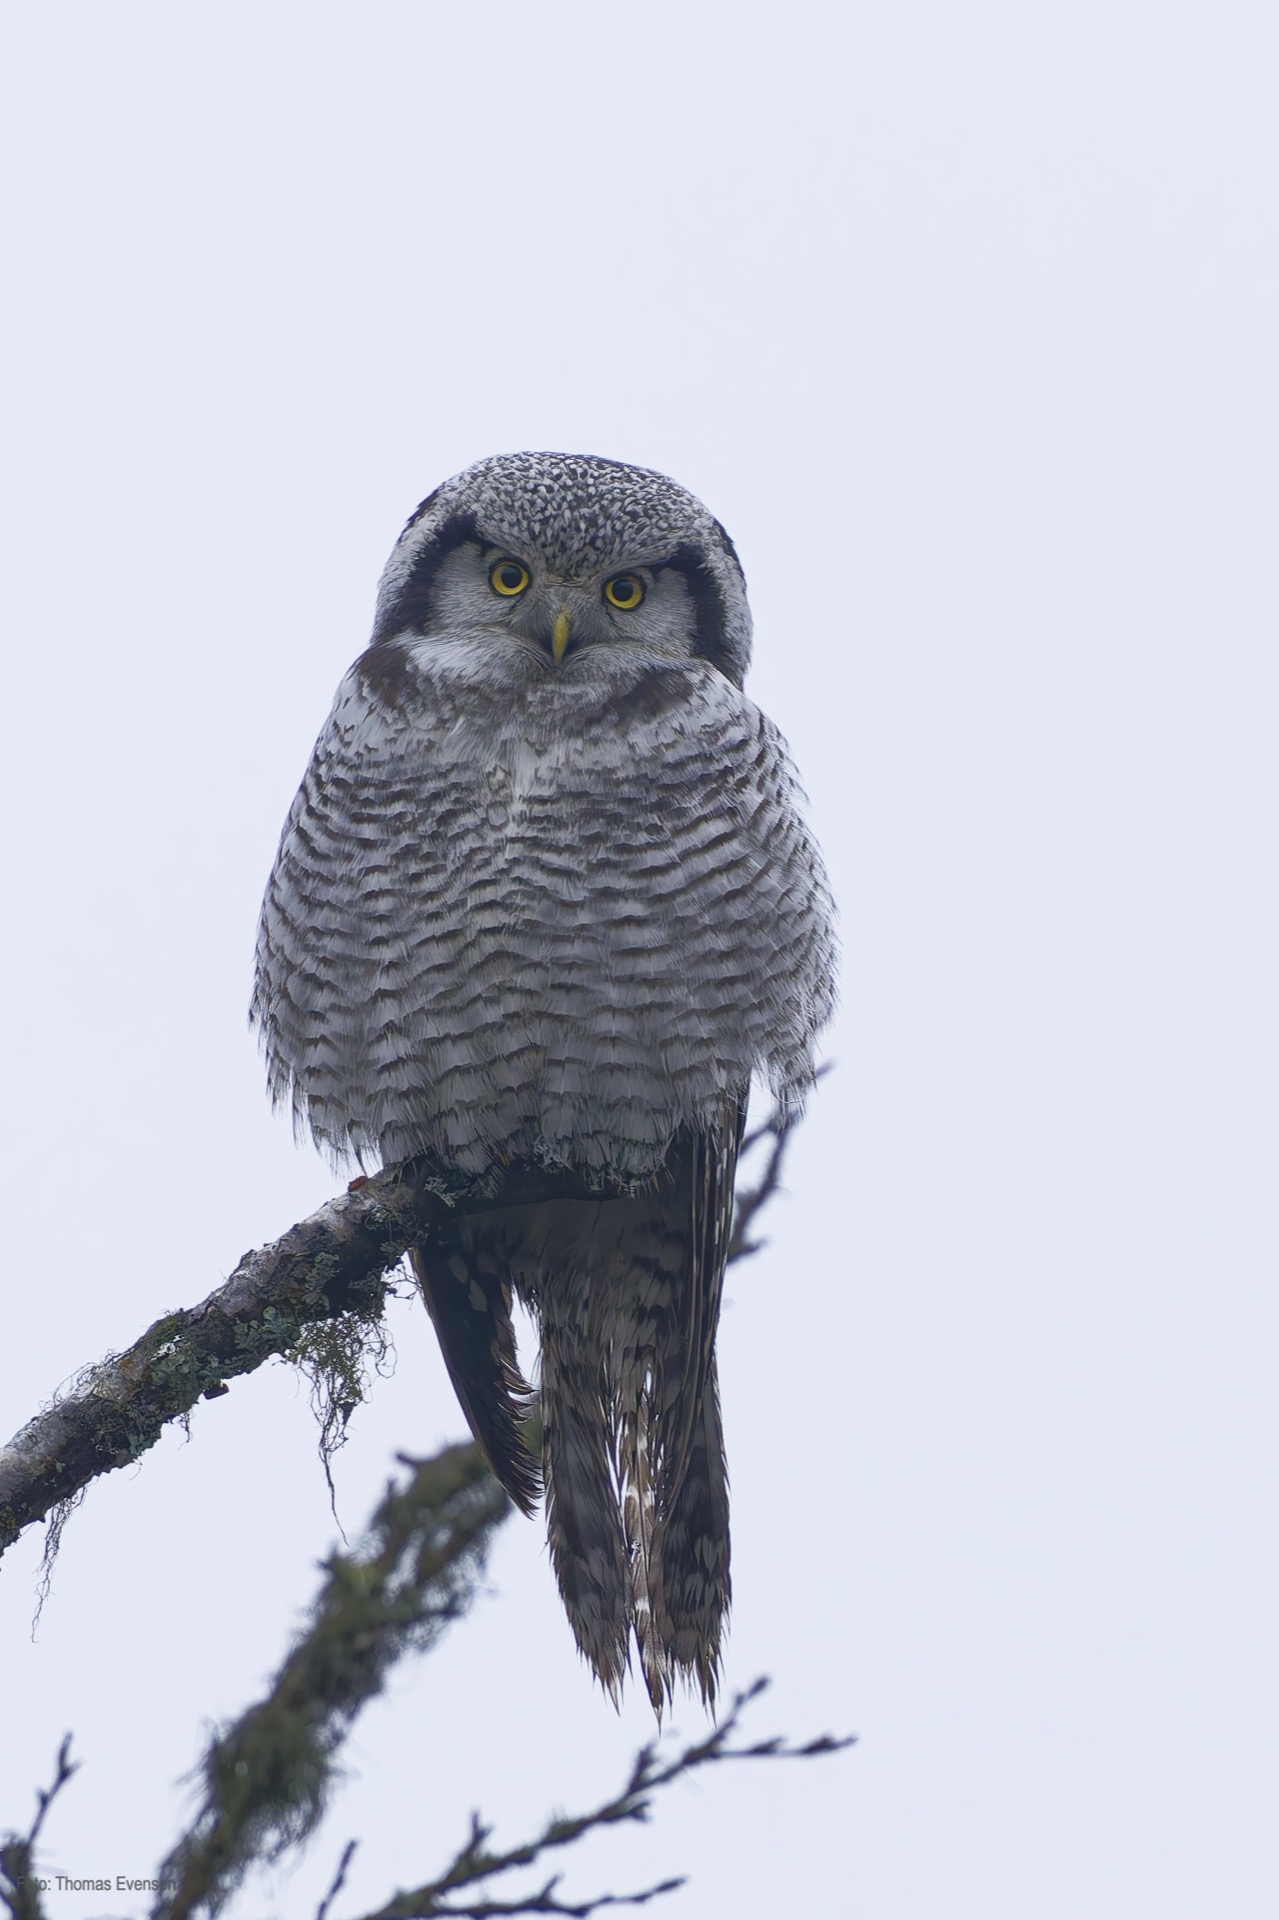
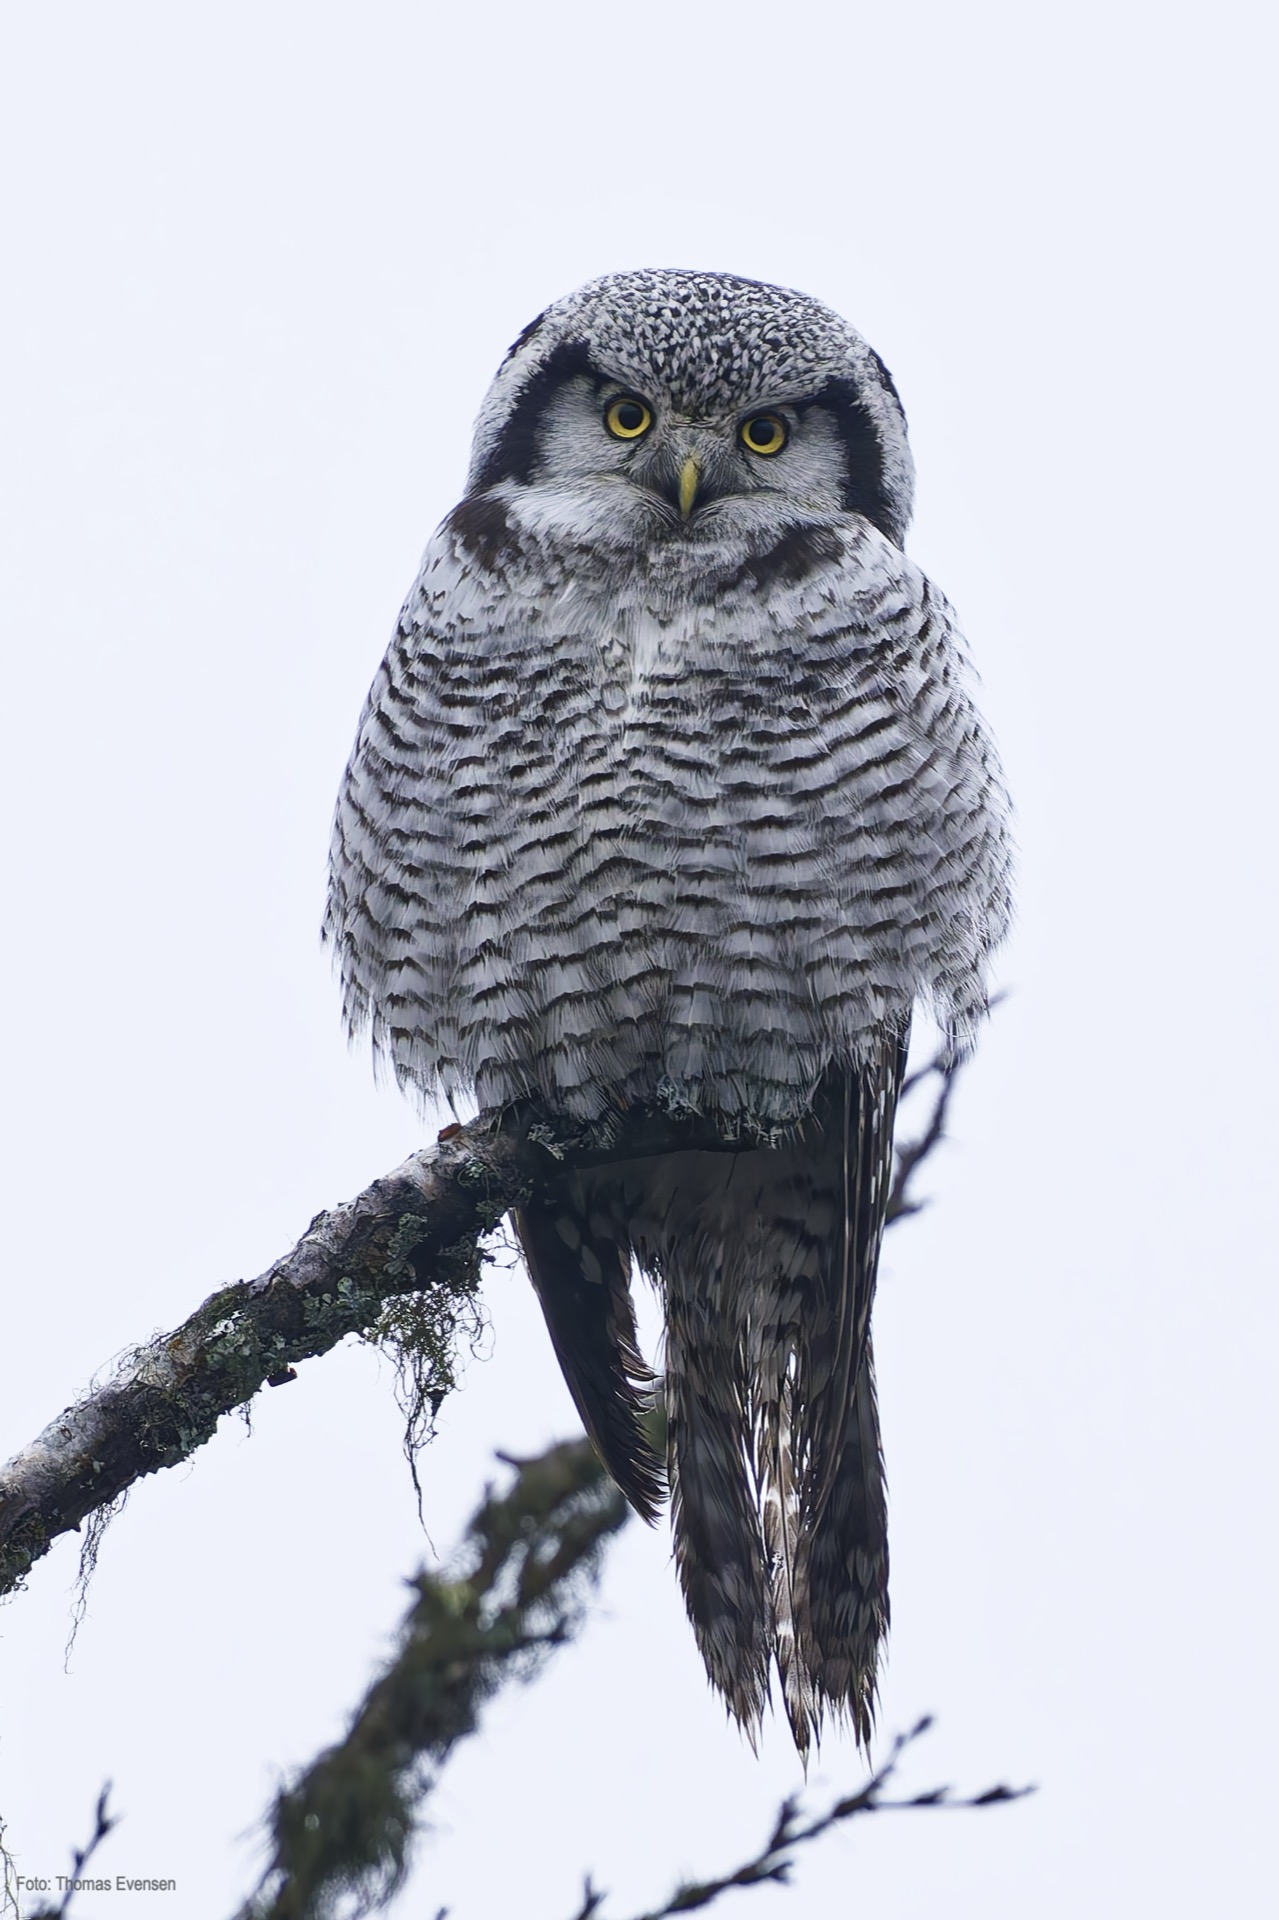
update

diff --git a/content/posts/owls.md b/content/posts/owls.md
@@ -25,8 +25,7 @@ of these four owls, are hunting by night. All three others are hunting in daylig
 # Gallery
 
 {{< image src="/images/birds/owls/_DSC5888_DxO.jpg"  caption="Northern hawk-owl" src_s="/images/birds/owls/thumbs/_DSC5888_DxO.jpg" src_l="/images/birds/owls/large/_DSC5888_DxO.jpg" >}}
-{{< image src="/images/birds/owls/_DSC5899_DxO.jpg"  caption="Northern hawk-owl" src_s="/images/birds/owls/thumbs/_DSC5899_DxO.jpg" src_l="/images/birds/owls/large/_DSC5899_DxO.jpg" >}}
-{{< image src="/images/birds/owls/_DSC5901_DxO.jpg"  caption="Northern hawk-owl" src_s="/images/birds/owls/thumbs/_DSC5901_DxO.jpg" src_l="/images/birds/owls/large/_DSC5901_DxO.jpg" >}}
+{{< image src="/images/birds/owls/_DSC5902_DxO.jpg"  caption="Northern hawk-owl" src_s="/images/birds/owls/thumbs/_DSC5902_DxO.jpg" src_l="/images/birds/owls/large/_DSC5902_DxO.jpg" >}}
 {{< image src="/images/birds/owls/DSC04816_DxO.jpg"  caption="Short-eared owl" src_s="/images/birds/owls/thumbs/DSC04816_DxO.jpg" src_l="/images/birds/owls/large/DSC04816_DxO.jpg" >}}
 {{< image src="/images/birds/owls/DSC04820_DxO.jpg"  caption="Short-eared owl" src_s="/images/birds/owls/thumbs/DSC04820_DxO.jpg" src_l="/images/birds/owls/large/DSC04820_DxO.jpg" >}}
 {{< image src="/images/birds/owls/DSC04676_DxO.jpg"  caption="Short-eared owl" src_s="/images/birds/owls/thumbs/DSC04676_DxO.jpg" src_l="/images/birds/owls/large/DSC04676_DxO.jpg" >}}
